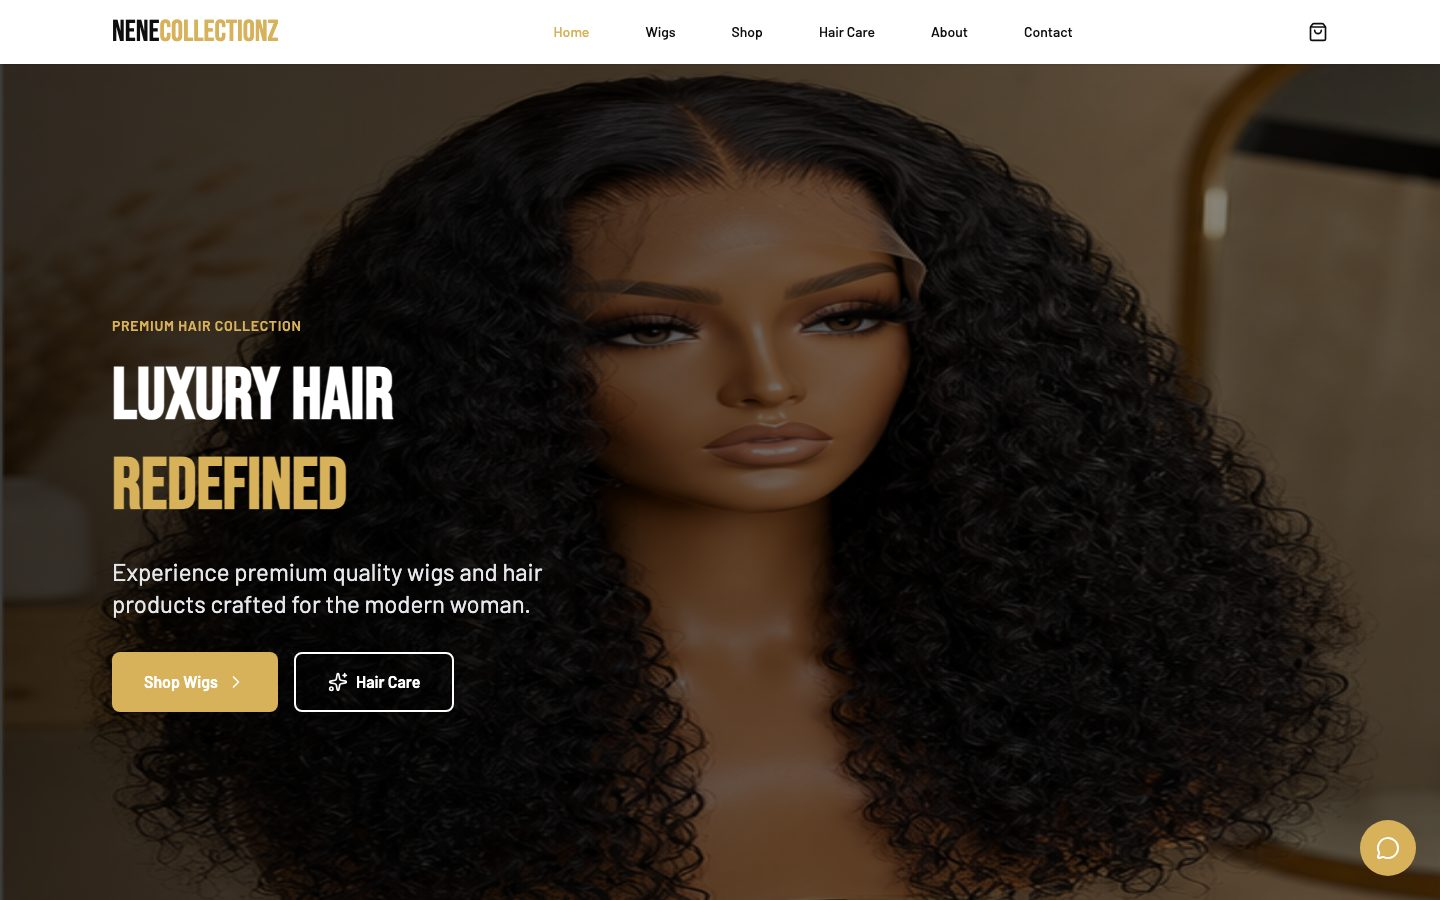
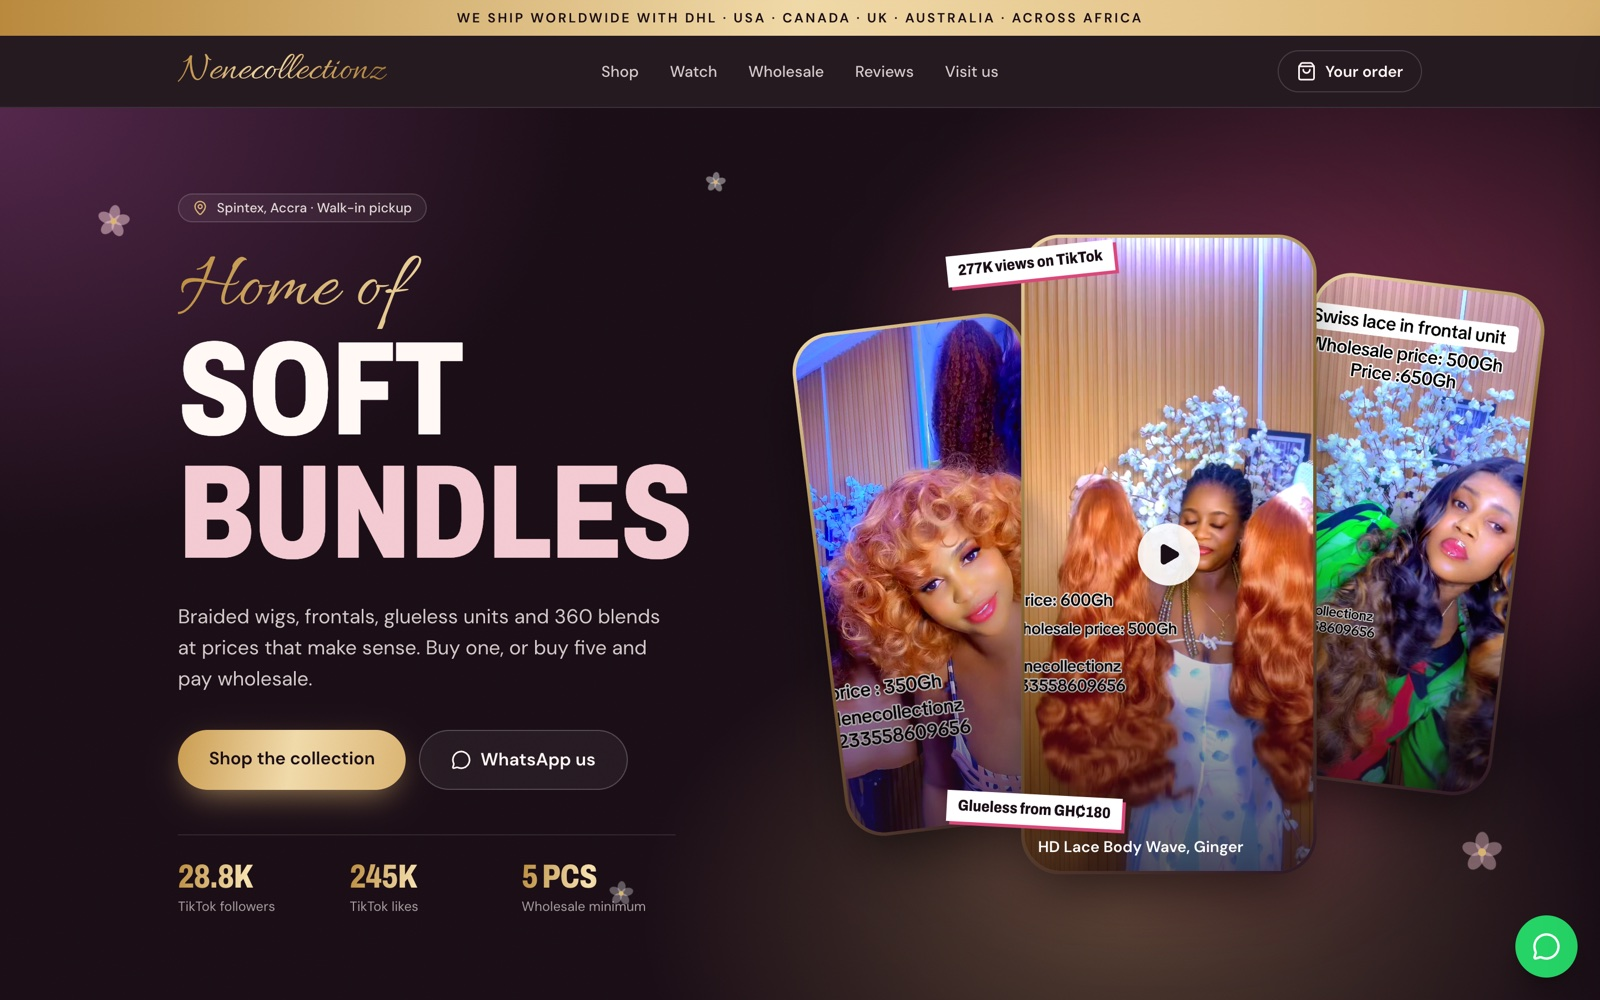
Update Nene Collectionz: new live site and marketing screenshots
- Point to nene-collectionz.leslieajayi27.workers.dev
- New description, name and hover tagline from the live site
- Replace screenshots with clean marketing shots from the project folder
- Update capture script URL

diff --git a/src/lib/data.ts b/src/lib/data.ts
@@ -609,7 +609,7 @@ export type Shipped = {
 export const SHIPPED: Shipped[] = [
   { slug: "sellis", name: "Sellis Beauty Spa", year: "2026", kind: "BUSINESS SITE", categories: ["WEB"], blurb: "Luxury beauty and spa in Accra: hair, spa, nails, waxing and lash treatments. Live on its own domain.", live: "https://sellisspa.com", stack: ["React", "Vite"] },
   { slug: "captivating-home", name: "Captivating Home & Trading", year: "2026", kind: "RETAIL PLATFORM", categories: ["WEB", "PRODUCT"], blurb: "Platform for a Ghanaian retail operation: home appliances, electricity vending and currency exchange. Live on its own domain.", live: "https://captivatinghometrade.com" },
-  { slug: "nenecollectionz", name: "NeneCollectionz", year: "2025", kind: "STOREFRONT", categories: ["WEB"], blurb: "Storefront for premium wigs and hair care.", live: "https://nenecollectionz.vercel.app" },
+  { slug: "nenecollectionz", name: "Nene Collectionz", year: "2026", kind: "STOREFRONT", categories: ["WEB"], blurb: "Wigs, wholesale and retail from Spintex, Accra: braided wigs, frontals and glueless units, ordered on WhatsApp and shipped worldwide.", live: "https://nene-collectionz.leslieajayi27.workers.dev/" },
   { slug: "rate-desk", name: "GHS to NGN Rate Desk", year: "2026", kind: "INTERNAL TOOL", categories: ["WEB", "SYSTEMS"], blurb: "Internal rate calculator with MongoDB-backed shared rates, so a whole team quotes the same number.", live: "https://rate-calc-kappa.vercel.app", repo: "https://github.com/Leslie-23/rateCalc", stack: ["Node.js", "MongoDB"] },
   { slug: "ecommerce", name: "PAL Shop", year: "2024", kind: "WEB APP", categories: ["WEB", "PRODUCT"], blurb: "E-commerce app where you can buy goods and sell them, with accounts, a cart and a checkout flow.", live: "https://paltech-e-commerce.netlify.app", stack: ["React"] },
   { slug: "grilli", name: "Grilli", year: "2024", kind: "TEMPLATE", categories: ["WEB"], blurb: "A restaurant landing page, hand-built in HTML and CSS.", live: "https://web-plusplus.vercel.app", repo: "https://github.com/Leslie-23/web-plusplus" },
@@ -922,7 +922,7 @@ export const VIBE: Record<string, Vibe> = {
   "campus-connect": { say: "Your whole campus in one app.", cursor: "JOIN", tone: "red", rot: 1.8, hx: 5, hy: -9, hr: -2.5 },
   sellis: { say: "Come in heavy. Leave weightless.", cursor: "BOOK", tone: "orange", rot: -1, hx: -4, hy: -7, hr: 1.5 },
   "captivating-home": { say: "Ask for current price.", cursor: "SHOP", tone: "red", rot: 0.7, hx: 4, hy: -6, hr: -1 },
-  nenecollectionz: { say: "Luxury hair, redefined.", cursor: "SHOP", tone: "orange", rot: -0.8, hx: -5, hy: -7, hr: 1 },
+  nenecollectionz: { say: "Home of wholesale prices.", cursor: "SHOP", tone: "orange", rot: -0.8, hx: -5, hy: -7, hr: 1 },
 };
 
 /** Where a screenshot should take you: the live product, else its source, else its case study. */
